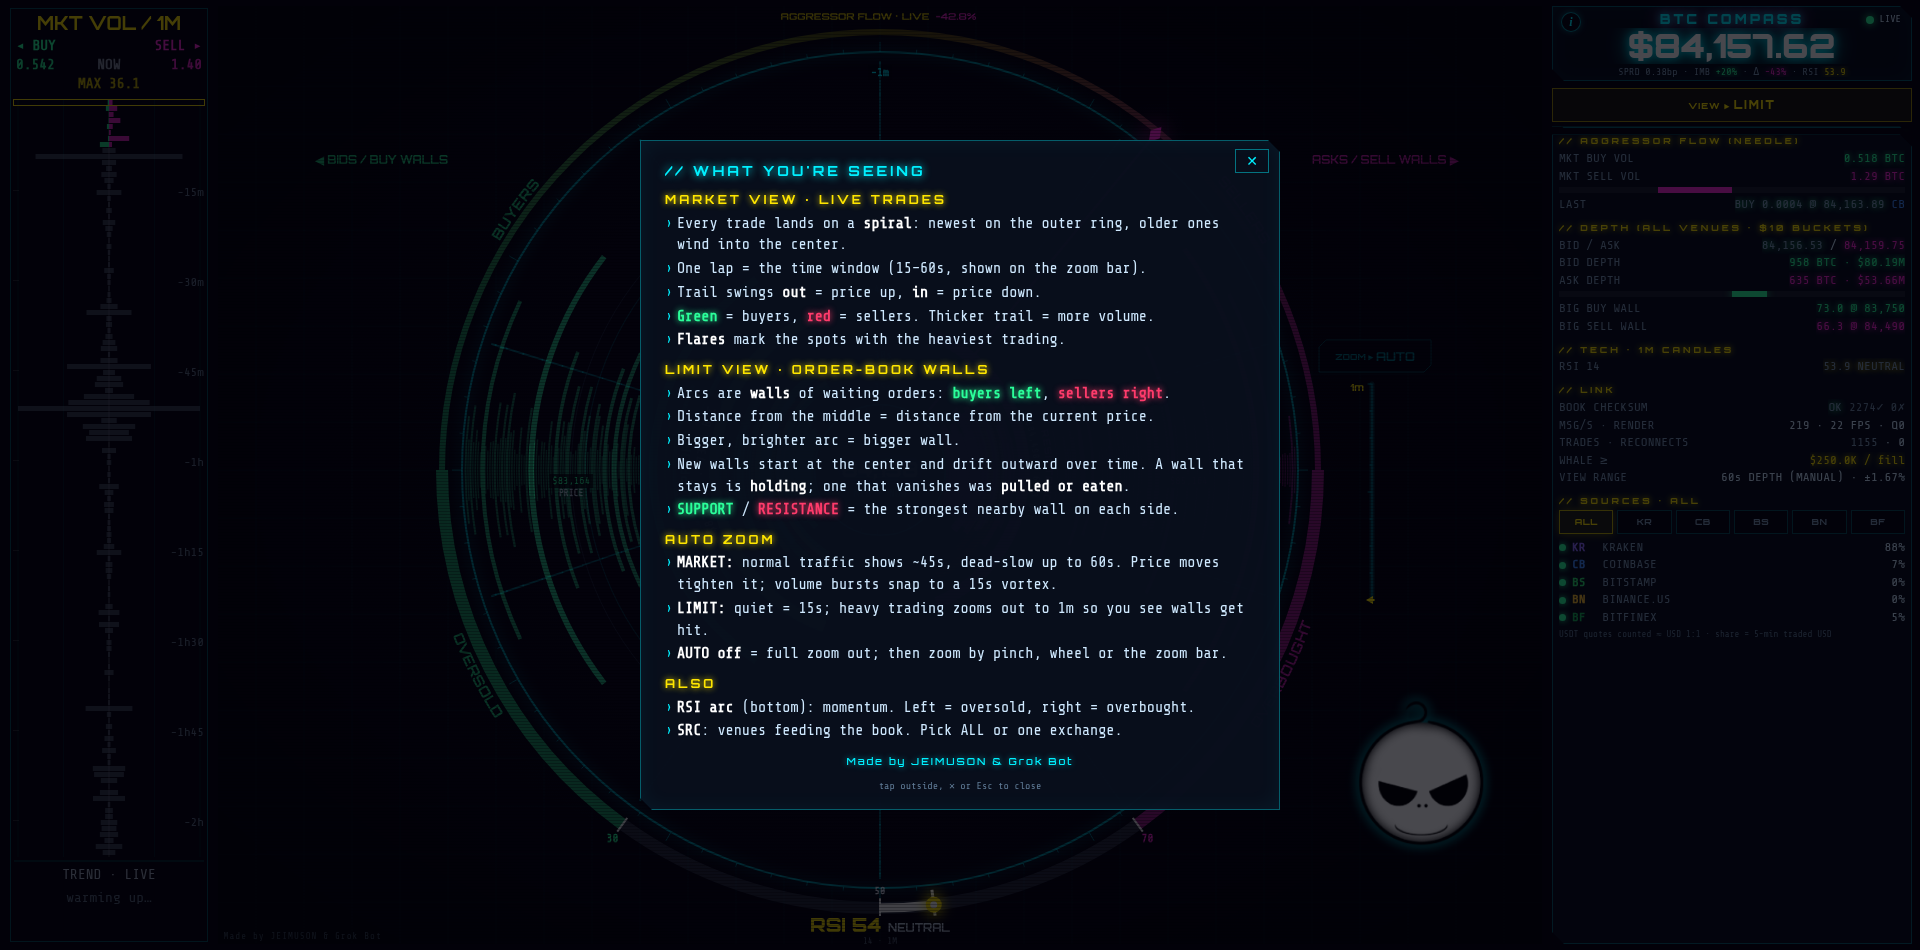
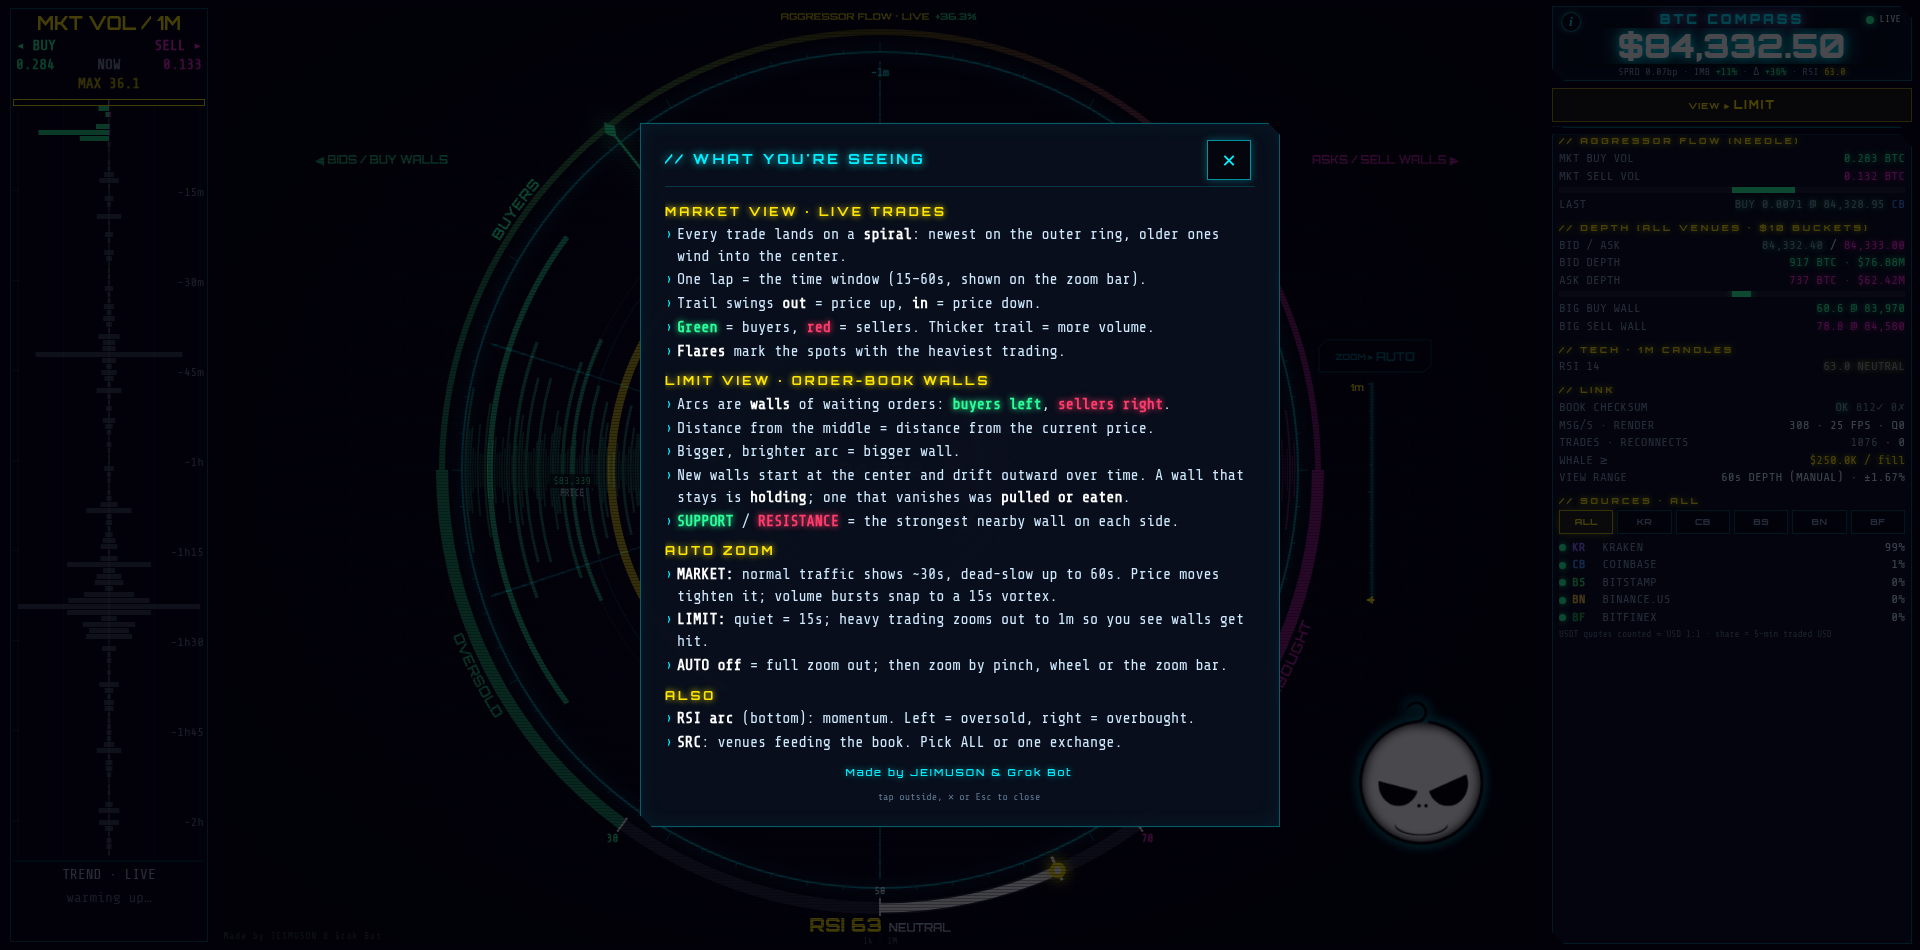
Info panel: fixed header with always-visible 44x40 close, dvh sizing, bottom inset; MARKET AUTO baseline 30s (build 20261002-1552)

diff --git a/index.html b/index.html
@@ -3,7 +3,7 @@
 <head>
 <meta charset="utf-8">
 <meta http-equiv="Cache-Control" content="no-cache, no-store, must-revalidate"><meta http-equiv="Pragma" content="no-cache"><meta http-equiv="Expires" content="0">
-<script>window.OFC_BUILD='20261002-1520';(function(){try{if(!/^https?:/.test(location.protocol))return;fetch(location.pathname+'?_='+Date.now(),{cache:'no-store'}).then(r=>r.text()).then(t=>{const m=t.match(/OFC_BUILD='([^']+)'/);if(m&&m[1]!==window.OFC_BUILD&&sessionStorage.getItem('ofcB')!==m[1]){sessionStorage.setItem('ofcB',m[1]);location.replace(location.pathname+'?v='+m[1]+location.hash);}}).catch(()=>{});}catch(e){}})();</script>
+<script>window.OFC_BUILD='20261002-1552';(function(){try{if(!/^https?:/.test(location.protocol))return;fetch(location.pathname+'?_='+Date.now(),{cache:'no-store'}).then(r=>r.text()).then(t=>{const m=t.match(/OFC_BUILD='([^']+)'/);if(m&&m[1]!==window.OFC_BUILD&&sessionStorage.getItem('ofcB')!==m[1]){sessionStorage.setItem('ofcB',m[1]);location.replace(location.pathname+'?v='+m[1]+location.hash);}}).catch(()=>{});}catch(e){}})();</script>
 <meta name="viewport" content="width=device-width,initial-scale=1,viewport-fit=cover,user-scalable=no">
 <meta name="theme-color" content="#05030c">
 <meta name="color-scheme" content="dark">
@@ -135,16 +135,18 @@ body.hublogo #top .logo{display:none}   /* mobile: logo lives in the compass hub
 }
 #infoBtn{position:absolute;left:8px;top:5px;width:20px;height:20px;padding:0;border-radius:50%;background:rgba(5,3,12,.6);border:1px solid rgba(0,240,255,.55);color:var(--cy);font:italic 700 12px/18px Georgia,serif;text-align:center;cursor:pointer;z-index:2;box-shadow:0 0 6px rgba(0,240,255,.35)}
 #infoBtn:hover,#infoBtn:focus-visible{color:#fff;border-color:var(--yl);box-shadow:0 0 10px rgba(255,230,0,.5);outline:none}
-#info{display:none;position:fixed;inset:0;z-index:60;background:rgba(2,1,8,.72);align-items:center;justify-content:center;padding:calc(var(--st) + 12px) 12px calc(var(--sb) + 12px)}
+#info{display:none;position:fixed;left:0;right:0;top:0;height:100vh;height:100dvh;z-index:60;background:rgba(2,1,8,.72);align-items:center;justify-content:center;padding:calc(var(--st) + 10px) calc(env(safe-area-inset-right,0px) + 10px) calc(var(--sb) + 10px) calc(env(safe-area-inset-left,0px) + 10px)}   /* dvh: fits the visible area even with the Android URL bar */
 #info.on{display:flex}
-#infoBox{position:relative;width:min(560px,100%);max-height:100%;overflow-y:auto;-webkit-overflow-scrolling:touch;overscroll-behavior:contain;background:rgba(8,14,28,.97);padding:14px 16px 12px;font-size:13px;line-height:1.45;color:#cfe9ff;-webkit-user-select:text;user-select:text;touch-action:pan-y}
-#infoBox h2{font-family:Orbitron,sans-serif;font-size:12px;letter-spacing:3px;color:var(--cy);text-shadow:0 0 8px var(--cy);margin:0 40px 8px 0}
+#infoBox{position:relative;display:flex;flex-direction:column;width:min(560px,100%);max-height:100%;min-height:0;overflow:hidden;background:rgba(8,14,28,.97);padding:14px 16px 16px;font-size:13px;line-height:1.45;color:#cfe9ff;-webkit-user-select:text;user-select:text;touch-action:pan-y}
+#infoHd{flex:0 0 auto;display:flex;align-items:center;justify-content:space-between;gap:8px;margin:-4px 0 6px;padding-bottom:6px;border-bottom:1px solid rgba(0,240,255,.18)}   /* header row never scrolls: X always visible */
+#infoBody{flex:1 1 auto;min-height:0;overflow-y:auto;-webkit-overflow-scrolling:touch;overscroll-behavior:contain;touch-action:pan-y;padding:0 2px 6px 0;scroll-padding-bottom:16px}   /* bottom inset matches the sides, while scrolling and at the end */
+#infoBox h2{font-family:Orbitron,sans-serif;font-size:12px;letter-spacing:3px;color:var(--cy);text-shadow:0 0 8px var(--cy);margin:0}
 #infoBox h3{font-size:10px;margin:10px 0 4px}
 #infoBox ul{list-style:none}
 #infoBox li{position:relative;padding-left:12px;margin:2px 0}
 #infoBox li:before{content:'›';position:absolute;left:0;color:var(--cy)}
 #infoBox b{color:#fff;font-weight:700}#infoBox b.gr{color:var(--gr)}#infoBox b.rd{color:var(--rd)}
-#infoX{position:absolute;top:8px;right:10px;width:34px;height:24px;background:transparent;border:1px solid rgba(0,240,255,.45);color:var(--cy);font-size:14px;cursor:pointer}
+#infoX{flex:0 0 auto;position:relative;z-index:2;width:44px;height:40px;margin-right:4px;padding:0;background:rgba(5,3,12,.85);border:1px solid rgba(0,240,255,.6);color:var(--cy);font-size:18px;line-height:38px;font-family:system-ui,sans-serif;cursor:pointer;touch-action:manipulation;box-shadow:0 0 8px rgba(0,240,255,.3)}
 .infoCred{font-family:Orbitron,sans-serif;font-size:10px;letter-spacing:2px;color:var(--cy);text-align:center;margin-top:12px;text-shadow:0 0 6px rgba(0,240,255,.6)}
 #credit{position:absolute;left:50%;bottom:2px;transform:translateX(-50%);z-index:9;pointer-events:none;white-space:nowrap;font-size:8px;letter-spacing:1px;color:rgba(160,200,230,.32)}
 @media (min-aspect-ratio:1/1){#credit{left:6px;transform:none;bottom:3px;font-size:9px}}
@@ -155,8 +157,8 @@ body.hublogo #top .logo{display:none}   /* mobile: logo lives in the compass hub
 </head>
 <body>
 <div id="info" role="dialog" aria-modal="true" aria-labelledby="infoT"><div id="infoBox" class="panel">
- <button id="infoX" aria-label="close">✕</button>
- <h2 id="infoT">// WHAT YOU'RE SEEING</h2>
+ <div id="infoHd"><h2 id="infoT">// WHAT YOU'RE SEEING</h2><button id="infoX" aria-label="close">✕</button></div>
+ <div id="infoBody">
  <h3>MARKET VIEW · LIVE TRADES</h3>
  <ul><li>Every trade lands on a <b>spiral</b>: newest on the outer ring, older ones wind into the center.</li>
  <li>One lap = the time window (15–60s, shown on the zoom bar).</li>
@@ -170,7 +172,7 @@ body.hublogo #top .logo{display:none}   /* mobile: logo lives in the compass hub
  <li>New walls start at the center and drift outward over time. A wall that stays is <b>holding</b>; one that vanishes was <b>pulled or eaten</b>.</li>
  <li><b class="gr">SUPPORT</b> / <b class="rd">RESISTANCE</b> = the strongest nearby wall on each side.</li></ul>
  <h3>AUTO ZOOM</h3>
- <ul><li><b>MARKET:</b> normal traffic shows ~45s, dead-slow up to 60s. Price moves tighten it; volume bursts snap to a 15s vortex.</li>
+ <ul><li><b>MARKET:</b> normal traffic shows ~30s, dead-slow up to 60s. Price moves tighten it; volume bursts snap to a 15s vortex.</li>
  <li><b>LIMIT:</b> quiet = 15s; heavy trading zooms out to 1m so you see walls get hit.</li>
  <li><b>AUTO off</b> = full zoom out; then zoom by pinch, wheel or the zoom bar.</li></ul>
  <h3>ALSO</h3>
@@ -178,6 +180,7 @@ body.hublogo #top .logo{display:none}   /* mobile: logo lives in the compass hub
  <li><b>SRC</b>: venues feeding the book. Pick ALL or one exchange.</li></ul>
  <div class="infoCred">Made by JEIMUSON &amp; Grok Bot</div>
  <div class="infoFoot">tap outside, ✕ or Esc to close</div>
+ </div>
 </div></div>
 <div id="app">
 <div id="colA"><div id="stage"><canvas id="cv"></canvas><div id="vig"></div><div id="scan"></div><canvas id="lcv"></canvas><div id="credit" aria-hidden="true">Made by JEIMUSON &amp; Grok Bot</div></div><canvas id="vcv"></canvas></div>
@@ -411,10 +414,11 @@ let burst={on:false,until:0,rel:0,r3:0,base:0,usd3:0};
 // LIMIT + AUTO (opposite of MARKET): quiet tape -> 15 s depth; heavier traffic vs the 60 s baseline -> deeper, toward 1 m; burst -> full 1 m.
 // rho = 3 s USD rate / 60 s baseline: rho<=1 -> 15 s, rho=2 -> 30 s, rho>=3 (=BURST_X) or burst -> 60 s (log scale). Deeper targets hold 5 s (burst: +6.5 s burst hold) before easing back in.
 let LT={w:15,hold:0,rho:0};
-// MARKET + AUTO window: volume sets the baseline (normal -> 45 s, dead-slow -> 60 s); price moves tighten it toward 15 s; a volume burst snaps to 15 s.
-//  q  = 60 s USD rate / 10 min EMA of that rate:   q>=0.6 -> 45 s,  q<=0.25 -> 60 s (log-interp between)
+// MARKET + AUTO window: volume sets the baseline (normal -> 30 s, dead-slow -> 60 s); price moves tighten it toward 15 s; a volume burst snaps to 15 s.
+//  q  = 60 s USD rate / 10 min EMA of that rate:   q>=0.6 -> 30 s,  q<=0.25 -> 60 s (log-interp between)
 //  z  = max |mid move| over last 10 s / 5 min EMA of that same measure (typical 10 s move):  z<=1.5 -> no change, z>=4 -> 15 s (log-interp)
-let MT={w:45,hold:0,q:1,z:0,vb:0,sg:0,t0:0,mp:[]};
+const MBASE=30;   // MARKET AUTO normal-traffic window
+let MT={w:30,hold:0,q:1,z:0,vb:0,sg:0,t0:0,mp:[]};
 setInterval(()=>{if(!trades.length)return;const n=Date.now();let u3=0,u60=0,old=n;
   for(let i=trades.length-1;i>=0;i--){const t=trades[i],ag=n-t.t;if(ag>63000)break;const u=t.qty*t.px;if(ag<=3000)u3+=u;else u60+=u;old=Math.min(old,t.t);}
   const bspan=Math.min(60,(n-old)/1000-3), base=bspan>=20?u60/bspan:0, r3=u3/3;
@@ -429,7 +433,7 @@ setInterval(()=>{if(!trades.length)return;const n=Date.now();let u3=0,u60=0,old=
     if(span10>=8){const a=1-Math.exp(-0.25/Math.min(300,10+el));MT.sg=MT.sg?MT.sg+(Math.max(mv,fl)-MT.sg)*a:Math.max(mv,fl);}
     if(base>0){const a=1-Math.exp(-0.25/Math.min(600,20+el));MT.vb=MT.vb?MT.vb+(base-MT.vb)*a:base;}
     MT.q=bspan>=20&&MT.vb>0?base/MT.vb:1; MT.z=MT.sg>0&&span10>=8?mv/MT.sg:0;
-    const kv=cl((MT.q-0.25)/0.35), wv=MWMAX*Math.pow(45/MWMAX,kv), kp=cl((MT.z-1.5)/2.5);
+    const kv=cl((MT.q-0.25)/0.35), wv=MWMAX*Math.pow(MBASE/MWMAX,kv), kp=cl((MT.z-1.5)/2.5);
     const wt=n<burst.until?BURST_WIN:wv*Math.pow(WMIN/wv,kp);
     if(wt<=MT.w){MT.w=wt;MT.hold=n+3000;}else if(n>MT.hold)MT.w=wt;}
   const was=burst.on;burst.on=n<burst.until;if(was&&!burst.on)burst.rel=n;},250);
@@ -1564,7 +1568,7 @@ function frame(){
   if(mid&&sortedB.length>5&&sortedA.length>5){
     {const db=mid-sortedB[Math.floor(sortedB.length*0.7)][0], da=sortedA[Math.floor(sortedA.length*0.7)][0]-mid;let f;
       if(VIEW==='market'){ // fit the recent trade price range so bubbles spread across the dial
-        const Wsel=burst.on?BURST_WIN:MT.w;   // volume burst -> tight vortex; else volume baseline (45/60 s) tightened by price moves (see MT)
+        const Wsel=burst.on?BURST_WIN:MT.w;   // volume burst -> tight vortex; else volume baseline (30/60 s) tightened by price moves (see MT)
         f=zR(Math.log(MWMAX/Wsel)/Math.log(MWMAX/WMIN));
       }else{f=Math.max(db,da)/mid;}
       f=Math.min(ZMAX,Math.max(ZMIN,f)); fitFrac=f;
